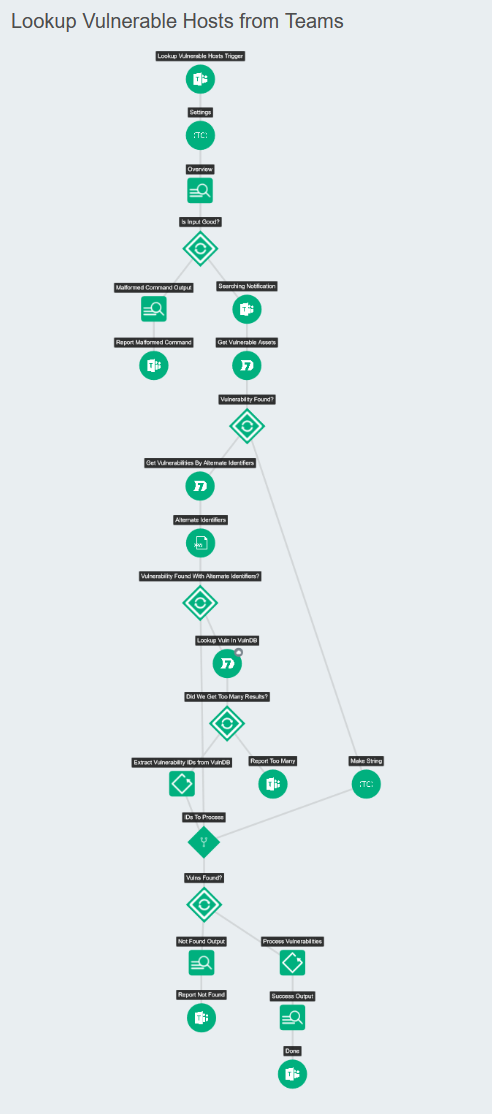
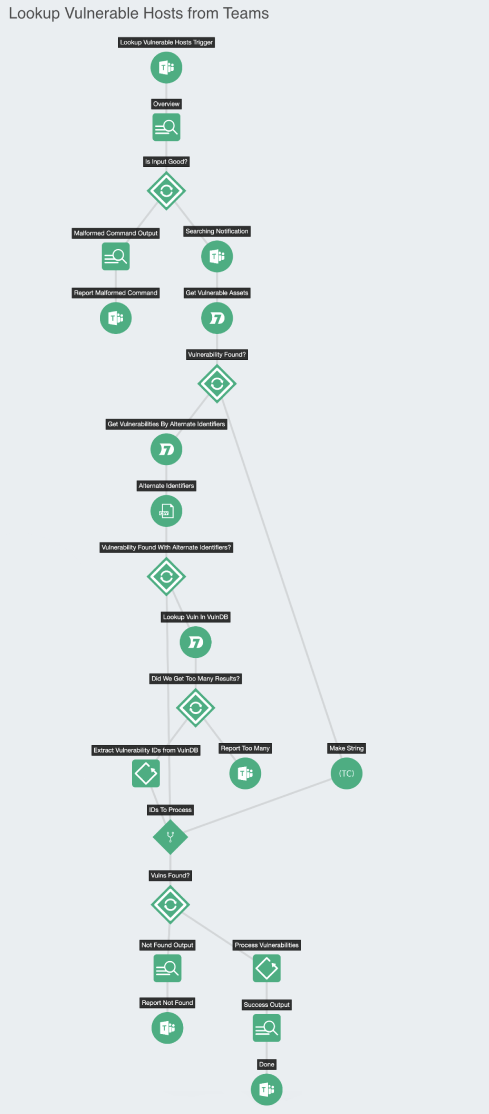
[SOAR-4451]: use workflow parameters where we can

Changed region(s): [[0.0, 0.0, 0.7055, 1.0], [0.6748, 0.6409, 0.7975, 0.7325]]

diff --git a/workflows/Lookup_Vulnerable_Hosts_From_Teams/help.md b/workflows/Lookup_Vulnerable_Hosts_From_Teams/help.md
@@ -24,9 +24,13 @@ Sample Microsoft Teams command:
 
 Import the workflow from the Rapid7 Extension Library and proceed through the Import Workflow wizard in InsightConnect. Import plugins, create or select connections, and rename the workflow as a part of the Import Workflow wizard as necessary.
 
-Once the workflow has been imported, **the first Microsoft Teams step will need the team name and channel name updated to suit your Teams environment!** Edit the input with the preset text of `change_me` in first Microsoft Teams step in the workflow. There is also an optional Settings step which can be edited to change the maximum number of vulnerabilities and maximum hosts listed per vulnerability which are returned. The defaults are 50 vulnerabilities and 10 assets per vulnerability.
+This workflow leverages InsightConnect's Parameters feature. This feature allows variables used multiple times throughout a workflow to be entered once and then referenced throughout the workflow. To begin, select "Parameters" either from the Workflow home page or from the Builder to begin configuration.
 
-After configuring the Microsoft Teams and Setting steps, activate the workflow in order to trigger it.
+There are three parameters you will need to configure in order to complete setup of your workflow:
+* `Team Name`: The Microsoft Teams team name in your environment where the workflow should be triggered and respond
+* `Channel Name`: The Microsoft Teams channel name in your environment where the workflow should be triggered and respond (the channel should exist in the aforementioned team)
+* `Max Hosts`: The maximum number of hosts listed per vulnerability (recommended default is 10)
+* `Max Vulnerabilities`: The maximum number of returned vulnerabilities (recommended default is 50)
 
 ### Usage
 
@@ -56,9 +60,9 @@ Plugins utilized by workflow:
 |----|----|--------|
 |Rapid7 InsightVM|4.8.1|5|
 |Microsoft Teams|3.1.0|8|
-|CSV|1.1.5|1|
+|CSV|1.1.6|1|
 |Rapid7 Vulnerability & Exploit Database|2.0.3|1|
-|Type Converter|1.6.0|3|
+|Type Converter|1.7.0|2|
 
 ## Troubleshooting
 
@@ -66,6 +70,7 @@ _There is no troubleshooting information at this time_
 
 # Version History
 
+* 2.0.0 - Leverage Parameters Feature | Use Workflow Parameters to configure Microsoft Teams team & channel names, max vulnerabilities, and max hosts values (and remove the Settings step) | Update CSV to version 1.1.6 | Update Type Converter to 1.7.0
 * 1.1.0 - Use the automatic extraction functionality instead of Pattern Match step to extract a vulnerability | Remove HTML step | Add max vulnerabilities parameter in Setting step | Remove team name and channel name parameters from Setting step | Improve workflow messaging | Improve documentation | Update screenshots | Update Rapid7 InsightVM to version 4.8.1 | Update Microsoft Teams to version 3.1.0 | Update Type Converter to version 1.6.0
 * 1.0.1 - Update to make Microsoft Teams plugin the latest version
 * 1.0.0 - Initial workflow
